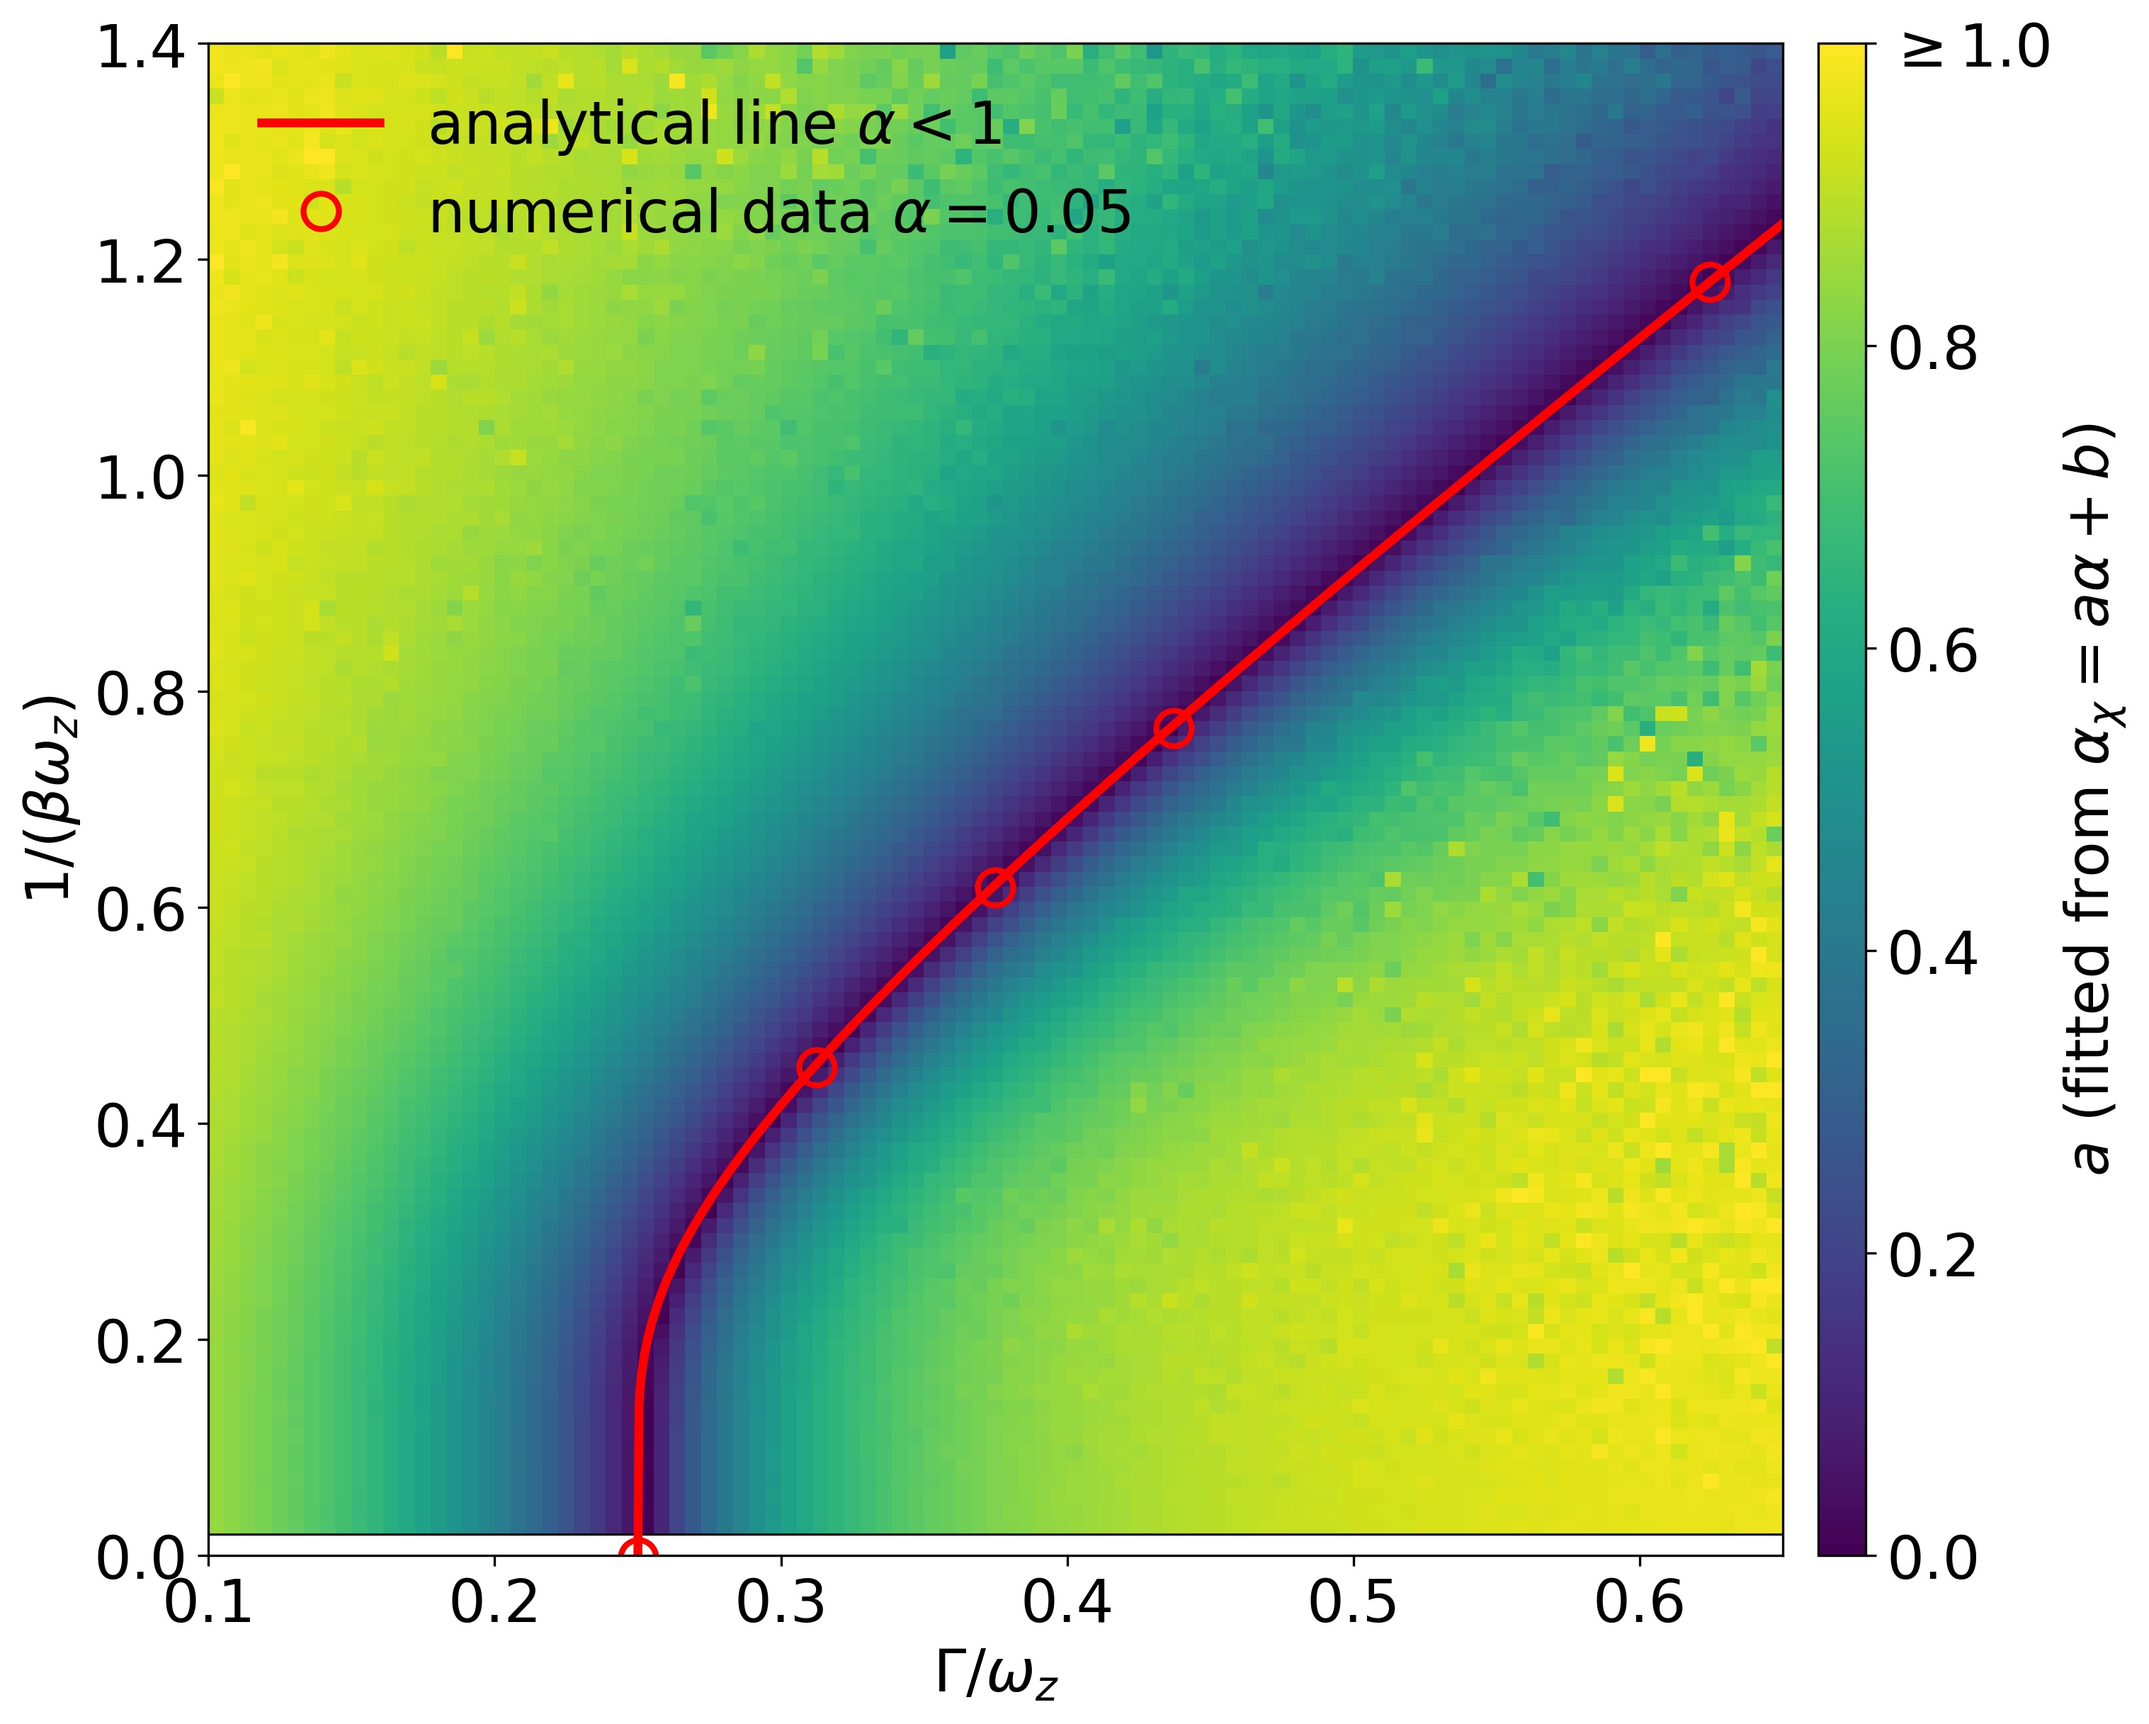
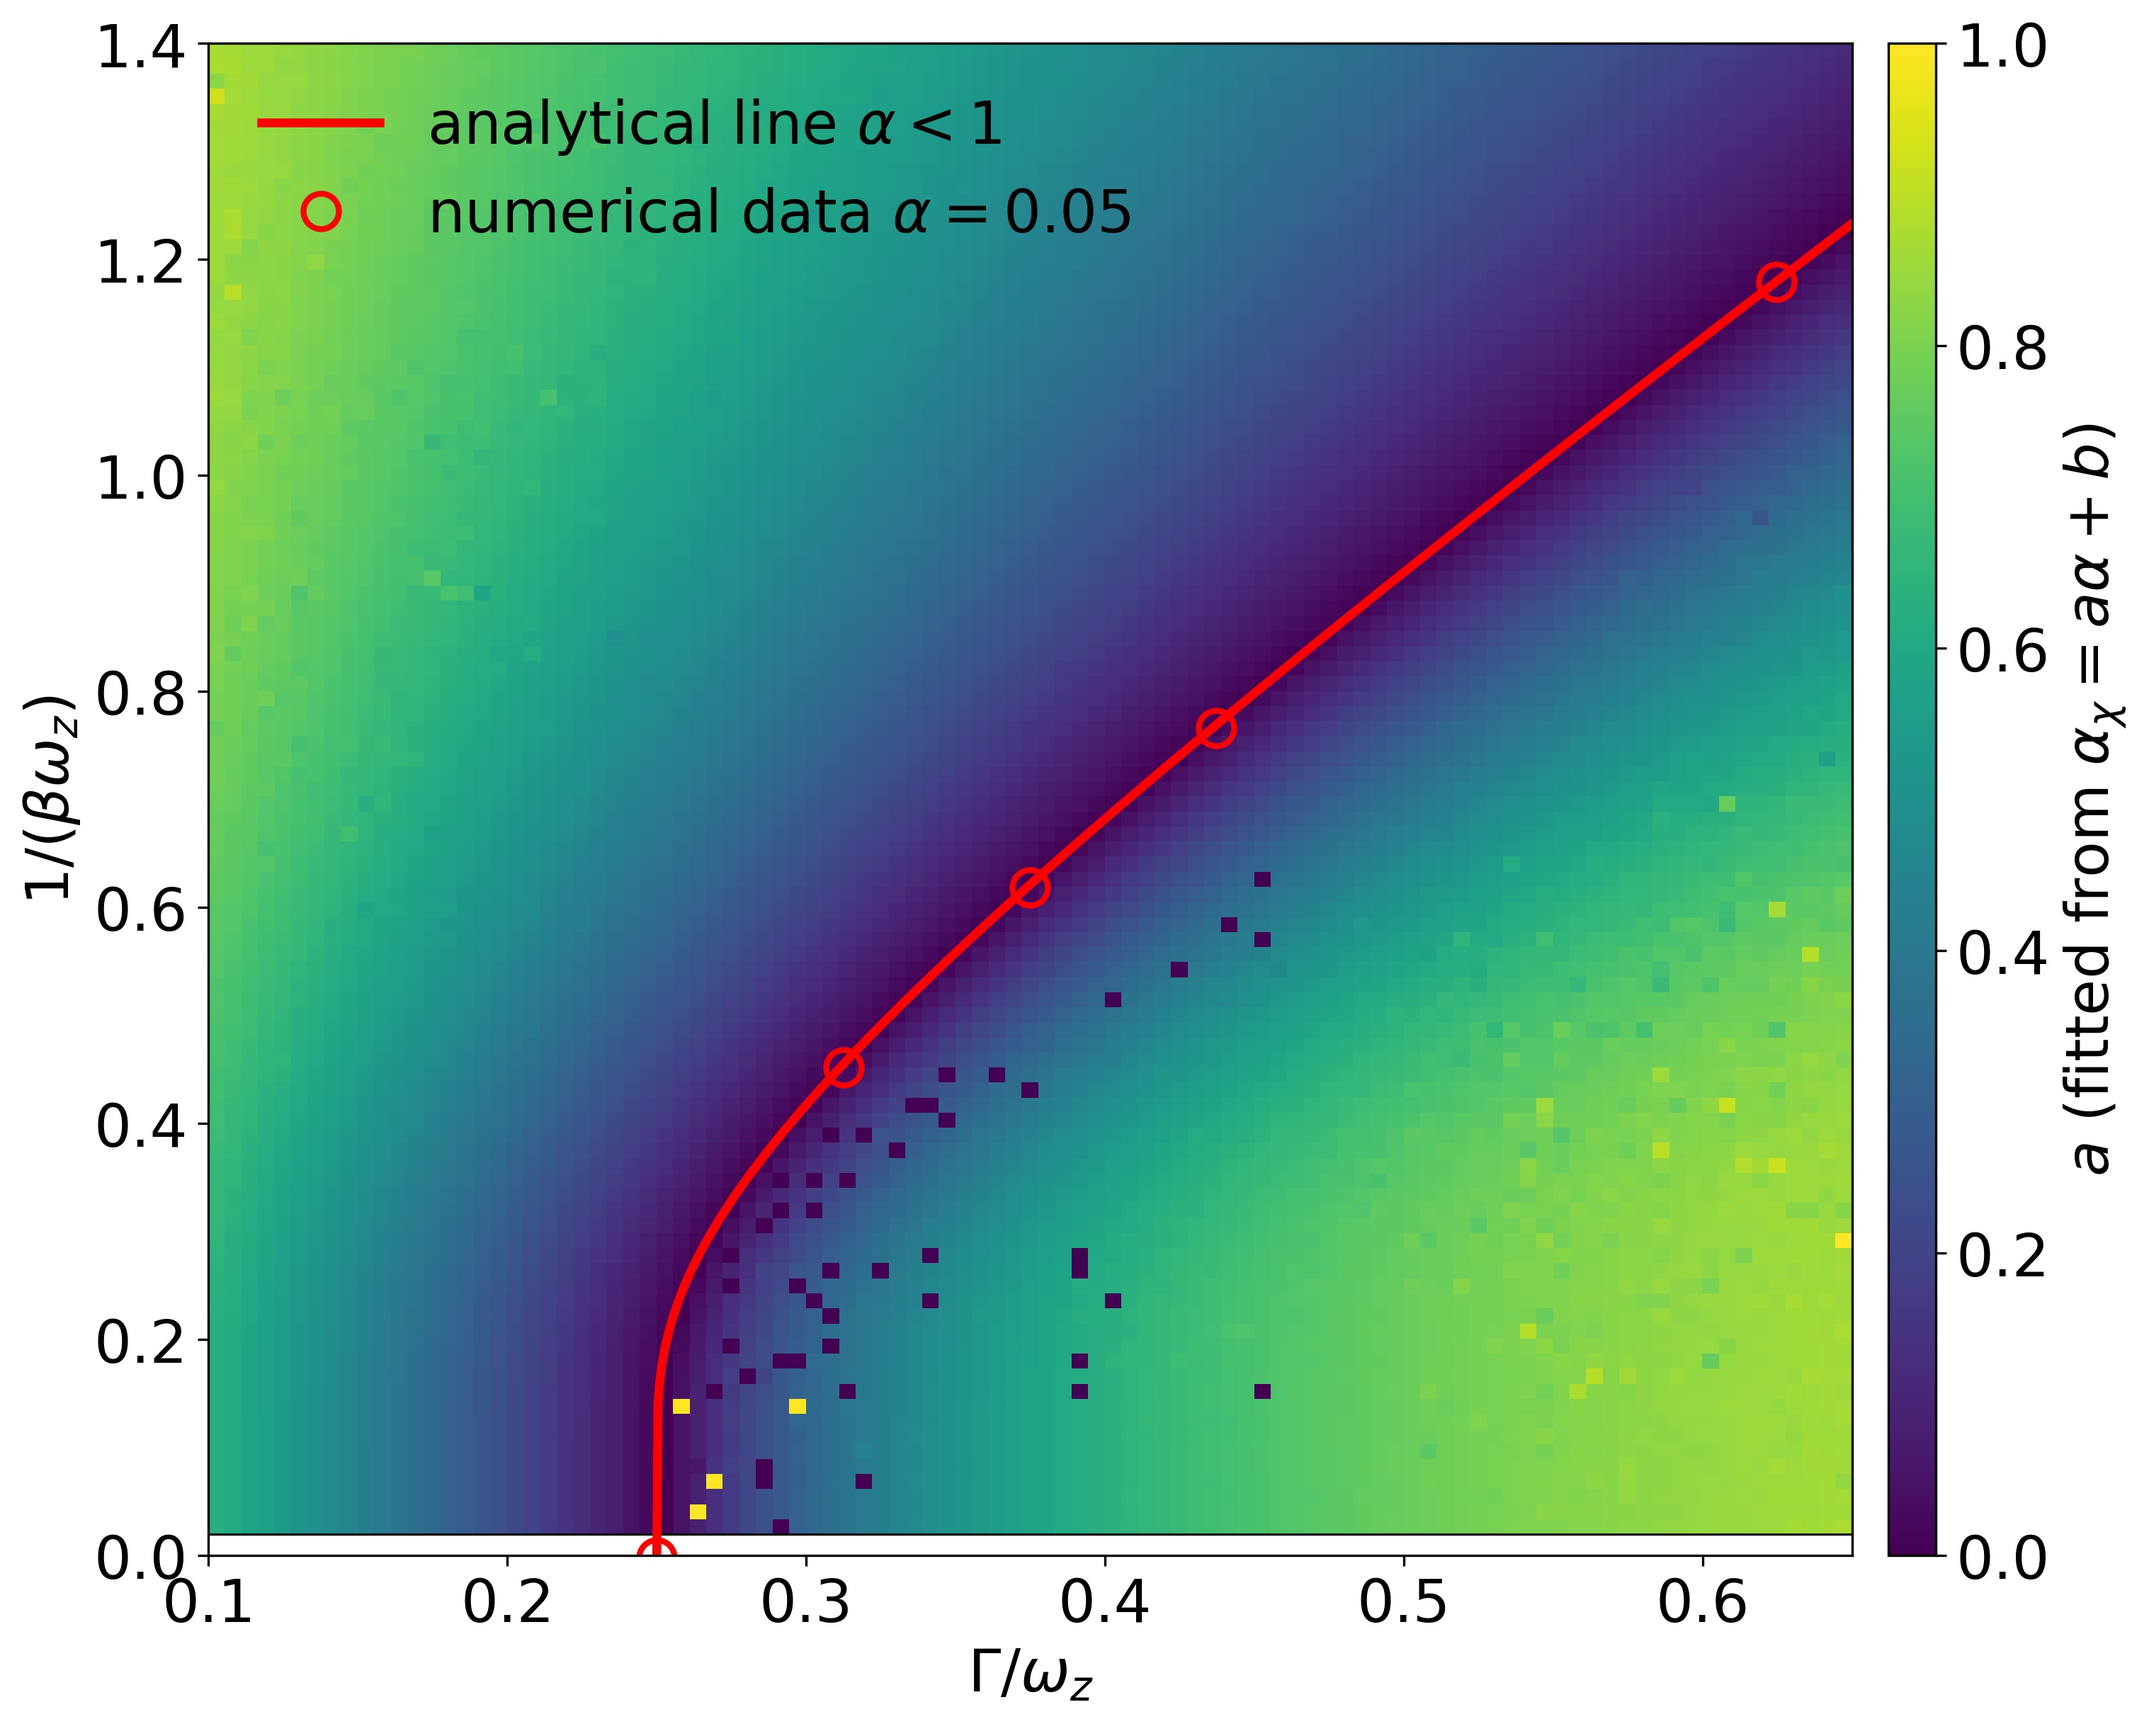
decay rates and trascendental eqs

diff --git a/phase_diagram_plot.py b/phase_diagram_plot.py
@@ -11,15 +11,18 @@ fig, axes = plt.subplots(1, 1, constrained_layout=True)
 ax = axes
 plt.axhline(0.02, c='k', lw=0.75)
 
-data_rates = np.load('data/rates_of_decay_rates_70_35_20_100_100_alt.npz')
+data_rates = np.load('data/latest_rates_of_decay_rates_100_46_15_100_100.npz')
 Ts = data_rates['Ts']
 J0s = data_rates['J0s']
 rates = data_rates['rates']
-cm = ax.pcolormesh(J0s, Ts, rates, vmin=0, vmax=1., cmap='viridis')   
+print(np.amin(rates), np.amax(rates))
+rates[rates > 1] = 1
+rates[rates < 0] = 0
+cm = ax.pcolormesh(J0s, Ts, rates, cmap='viridis', vmin=np.amin(rates), vmax=np.amax(rates))   
 # label = r'fit of $a$ ($\alpha_\chi = a \alpha + b ; \quad \chi_{0j} = A \cdot j^{-\alpha_\chi})$'
 label = r'$a$ (fitted from $\alpha_\chi = a \alpha + b)$'
 cbar = fig.colorbar(cm, label=label, pad=0.01, aspect=40)
-cbar.ax.set_yticklabels(['0.0', '0.2', '0.4', '0.6', '0.8', r'$\geq 1.0$'])
+#cbar.ax.set_yticklabels(['0.0', '0.2', '0.4', '0.6', '0.8', r'$\geq 1.0$'])
 
 c = plt.get_cmap('magma')(np.linspace(0.1, 0.9, 5))[3]
 

diff --git a/decay_rates.py b/decay_rates.py
@@ -9,13 +9,13 @@ def correlation_decay_fit(x, m, n):
 
 import algo
 
-N = 70
+N = 100
 M = int(np.sqrt(N) * np.log(N))
-Ts = np.linspace(0.02, 1.4, 100)
+Ts = np.linspace(0.02, 1.4, 20)
 betas = 1 / Ts
 wz = 1
-J0s = np.linspace(0.1, 0.65, 100)
-alphas = np.linspace(0.3, 0.99, 20)
+J0s = np.linspace(0.1, 0.65, 20)
+alphas = np.linspace(0.01, 0.5, 10)
 gs = 0.0 * np.ones(N)
 dg = 5e-3 * wz
 i = 0
@@ -39,4 +39,4 @@ for m, beta in enumerate(betas):
         popt, pcov = curve_fit(correlation_decay_fit, alphas[:2*len(alphas)//4], crit_exp[:2*len(alphas)//4], p0=(1, 0))
         rates_of_decay_rates[m, n] = popt[0]
 
-np.savez(f'data/rates_of_decay_rates_{N}_{M}_{len(alphas)}_{len(Ts)}_{len(J0s)}', Ts=Ts, J0s=J0s, rates=rates_of_decay_rates)
+np.savez(f'data/latest_rates_of_decay_rates_{N}_{M}_{len(alphas)}_{len(Ts)}_{len(J0s)}', Ts=Ts, J0s=J0s, rates=rates_of_decay_rates)
